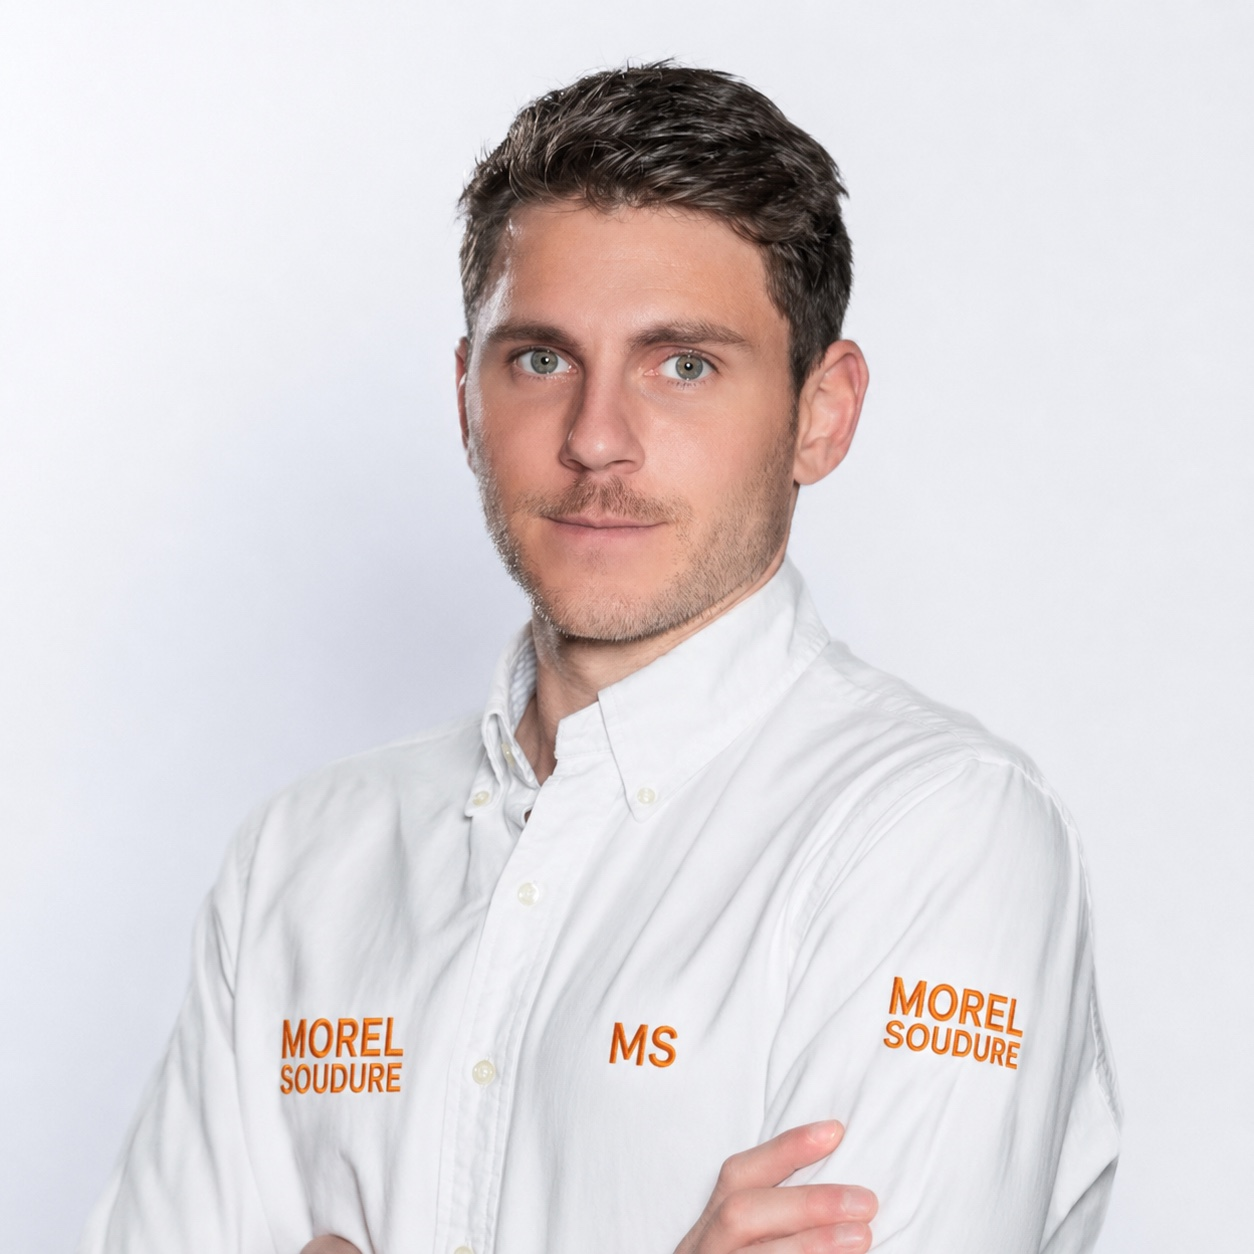
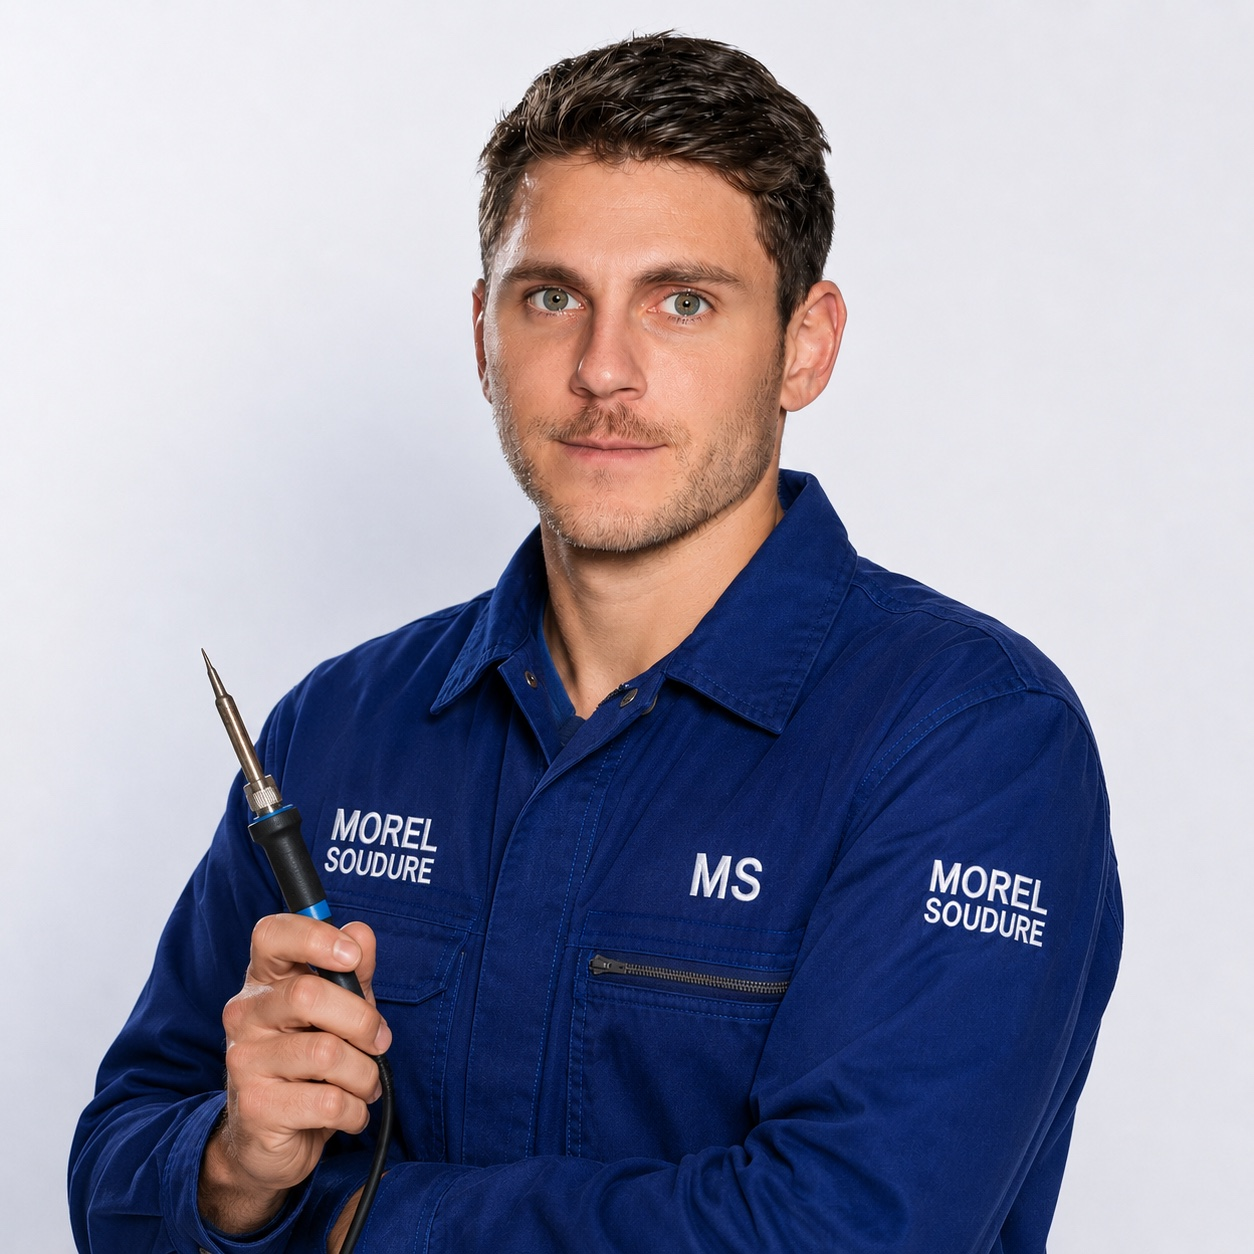
Nouvelle photo fondateur (bleu de travail) + slogan en titre du hero
Le hero affiche « Le savoir-fer, point par point » a la place de « L'acier entre de bonnes mains ». Baseline du header retiree (redondante avec le titre).

diff --git a/components/Header.tsx b/components/Header.tsx
@@ -10,14 +10,9 @@ function Logo() {
       <span className="grid h-10 w-10 shrink-0 place-items-center bg-weld text-ink transition-colors group-hover:bg-weld-bright">
         <IconTorch className="h-6 w-6" strokeWidth={1.6} />
       </span>
-      <span className="flex flex-col leading-none">
-        <span className="font-display text-xl font-semibold uppercase tracking-tight text-cream">
-          Morel<span className="text-weld">.</span>
-          <span className="ml-1 text-fog-dim">Soudure</span>
-        </span>
-        <span className="mt-1 hidden text-[10px] font-medium uppercase tracking-[0.1em] text-fog-dim sm:block">
-          Le savoir-fer, point par point
-        </span>
+      <span className="font-display text-xl font-semibold uppercase leading-none tracking-tight text-cream">
+        Morel<span className="text-weld">.</span>
+        <span className="ml-1 text-fog-dim">Soudure</span>
       </span>
     </a>
   );

diff --git a/components/Hero.tsx b/components/Hero.tsx
@@ -80,11 +80,9 @@ export default function Hero() {
               style={{ transitionDelay: "60ms" }}
               className="mt-6 font-display text-5xl font-semibold uppercase leading-[0.98] text-cream sm:text-6xl md:text-7xl"
             >
-              L'acier entre
+              Le savoir-<span className="text-weld">fer</span>,
               <br />
-              de bonnes
-              <br />
-              mains<span className="text-weld">.</span>
+              point par point<span className="text-weld">.</span>
             </h1>
 
             <p